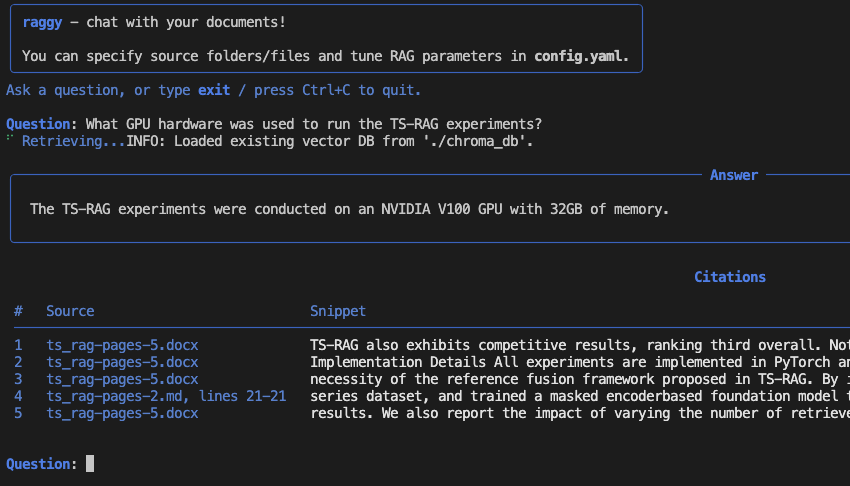
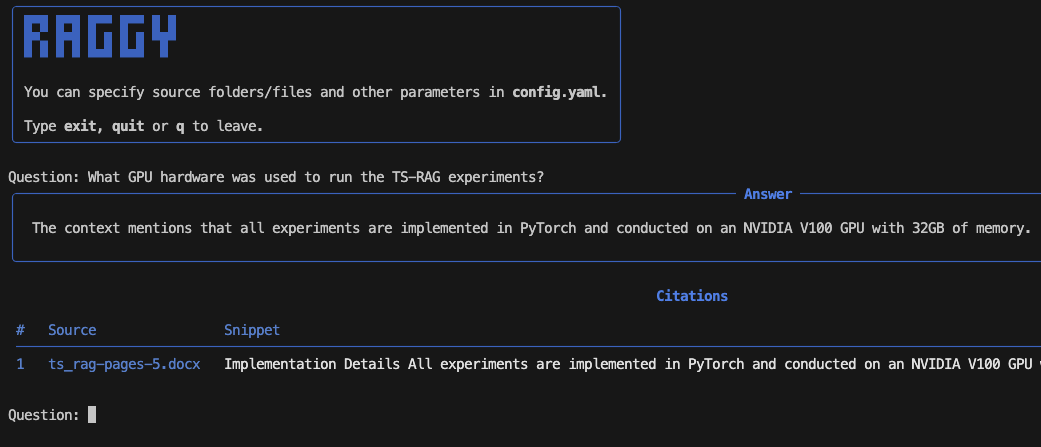
improved UX/UI in CLI

diff --git a/raggy/cli.py b/raggy/cli.py
@@ -2,22 +2,48 @@
 
 import logging
 import readline  # noqa: F401  enables arrow-key editing/history in input()
+import textwrap
 
 from rich.box import SIMPLE_HEAD
 from rich.console import Console
 from rich.live import Live
 from rich.markdown import Markdown
 from rich.panel import Panel
-from rich.prompt import Prompt
 from rich.table import Table
 
-from .raggy import refresh_db, run_pipeline_stream, source_label
+from .raggy import load_config, refresh_db, run_pipeline_stream, source_label
+from .vectorstore import build_index_config, db_needs_rebuild
 
 logger = logging.getLogger(__name__)
 
 ACCENT = "blue"
+STATUS_ACCENT = "grey"
+
+LOGO = textwrap.dedent(
+    r"""
+    █▀█ █▀█ █▀▀ █▀▀ █ █
+    █▀▄ █▀█ █ █ █ █ ▀█▀
+    ▀ ▀ ▀ ▀ ▀▀▀ ▀▀▀  ▀
+    """
+).strip("\n")
 
 console = Console()
+
+
+def _ask(prompt: str) -> str:
+    """Prompt for input, using a plain (uncolored) readline prompt.
+
+    rich's ``Prompt.ask``/``console.input`` and ANSI-colored prompts are
+    unreliable here: on macOS the ``readline`` module is backed by Apple's
+    libedit, which mangles any ANSI escapes in the prompt (cursor jumps while
+    typing) and wipes the label when backspacing. A plain-text prompt passed
+    to ``input()`` is measured correctly by both libedit and GNU readline, so
+    backspacing and arrow keys behave as expected.
+    """
+    from rich.text import Text
+
+    plain = Text.from_markup(prompt).plain
+    return input(plain)
 
 
 def _answer_panel(text: str) -> Panel:
@@ -57,34 +83,49 @@ def print_citations(retrieved_docs) -> None:
 def run_chat() -> None:
     console.print(
         Panel.fit(
-            f"[bold {ACCENT}]raggy[/bold {ACCENT}] - chat with your documents!\n\n"
-            "You can specify source folders/files and tune RAG parameters in "
-            "[bold]config.yaml[/bold].",
+            f"[{ACCENT}]{LOGO}[/{ACCENT}]\n\n"
+            "You can specify source folders/files and other parameters in "
+            "[bold]config.yaml[/bold].\n\n"
+            "Type [bold]exit[/bold], [bold]quit[/bold] or [bold]q[/bold] to leave.",
             border_style=ACCENT,
         )
     )
-    console.print(
-        f"[{ACCENT}]Ask a question, or type [bold]exit[/bold] / press Ctrl+C to quit.\n"
-    )
+    console.print()
 
     while True:
         try:
-            query = Prompt.ask(f"[bold {ACCENT}]Question[/bold {ACCENT}]")
+            query = _ask("Question: ")
         except (KeyboardInterrupt, EOFError):
-            console.print(f"\n[{ACCENT}]See you![/{ACCENT}]")
+            console.print()
+            console.print(f"[{ACCENT}]See you![/{ACCENT}]")
             return
 
         query = query.strip()
         if query.lower() in {"exit", "quit", "q"}:
+            console.print()
             console.print(f"[{ACCENT}]See you![/{ACCENT}]")
             return
         if not query:
             continue
 
         try:
-            rebuilt = refresh_db()
+            cfg = load_config()
+            index_cfg = build_index_config(
+                sources=cfg["sources"],
+                chunk_size=cfg["chunk_size"],
+                chunk_overlap=cfg["chunk_overlap"],
+                embedding_model=cfg["embedding_model"],
+            )
+            needs_rebuild = db_needs_rebuild(cfg["persist_directory"], index_cfg)
+            if needs_rebuild:
+                with console.status(
+                    f"[{STATUS_ACCENT}]DB needs (re-)build...[/{STATUS_ACCENT}]"
+                ):
+                    rebuilt = refresh_db()
+            else:
+                rebuilt = refresh_db()
             doc_sink: list = []
-            with console.status(f"[{ACCENT}]Retrieving...[/{ACCENT}]"):
+            with console.status(f"[{STATUS_ACCENT}]Retrieving...[/{STATUS_ACCENT}]"):
                 stream = run_pipeline_stream(query, doc_sink=doc_sink)
                 first_chunk = next(stream)
         except FileNotFoundError as e:
@@ -96,9 +137,7 @@ def run_chat() -> None:
             return
 
         if rebuilt:
-            console.print(
-                f"[{ACCENT}]Source documents changed - DB re-indexed.[/{ACCENT}]"
-            )
+            console.print(f"[{ACCENT}]DB re-indexed.[/{ACCENT}]")
 
         response_parts = [first_chunk]
         try:
@@ -124,5 +163,5 @@ def run_chat() -> None:
 
 def main() -> None:
     logging.basicConfig(level=logging.WARNING, format="%(levelname)s: %(message)s")
-    logging.getLogger("raggy").setLevel(logging.INFO)
+    logging.getLogger("raggy").setLevel(logging.WARNING)
     run_chat()

diff --git a/raggy/vectorstore.py b/raggy/vectorstore.py
@@ -1,6 +1,7 @@
 import hashlib
 import logging
 import shutil
+import sys
 from pathlib import Path
 
 import yaml
@@ -131,6 +132,7 @@ def ingest_document(
         batch_sizes,
         total=n_batches,
         desc="Indexing Batches",
+        disable=not sys.stderr.isatty(),
     ):
         batch = splits[:batch_size]
         splits = splits[batch_size:]

diff --git a/README.md b/README.md
@@ -71,7 +71,7 @@ make sure
 
 Type `raggy` command to run interactive CLI:
 
-<img src="assets/cli_demo.png" width="850">
+<img src="assets/cli_demo.png">
 
 Or use it as a library:
 
